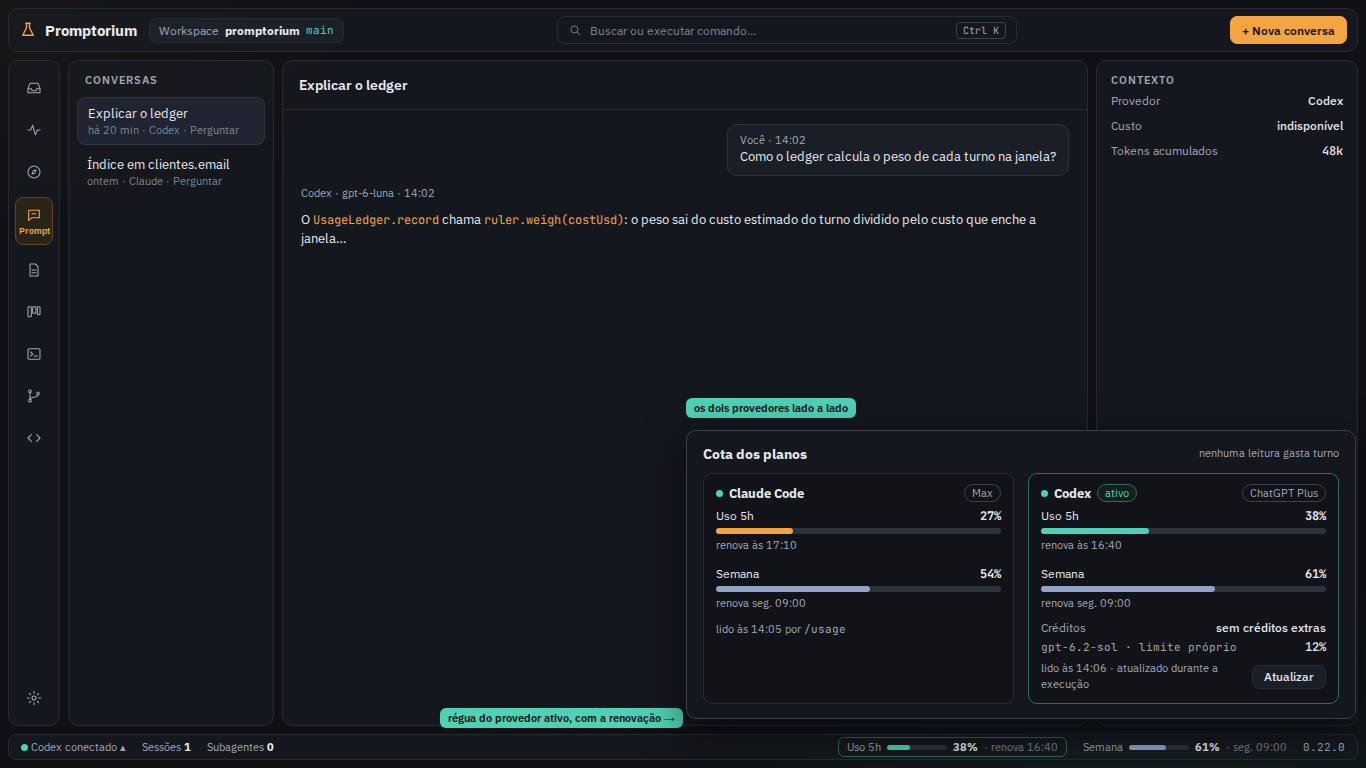
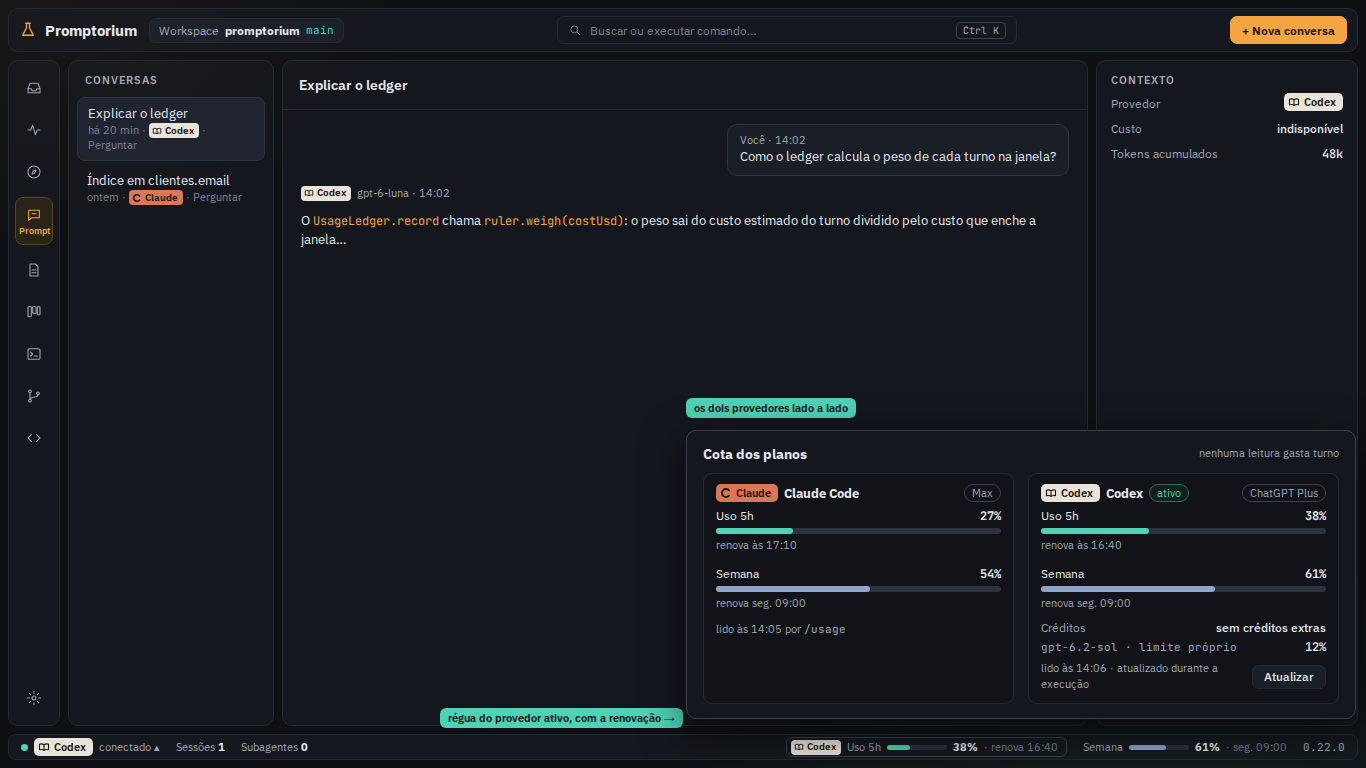
docs(spec): SPEC-097 cores de provedor

diff --git a/docs/specs/SPEC-097-cota-codex-rodape.md b/docs/specs/SPEC-097-cota-codex-rodape.md
@@ -117,3 +117,5 @@ Canvas: [SPEC-097 · Cota do Codex no rodapé](https://claude.ai/artifact/5ZUZtm
 | `docs/mockups/spec-097/1-rodape-e-detalhe.png` | Rodapé com a cota do Codex e o detalhe aberto: Claude Code e Codex lado a lado, plano, janelas, renovação, créditos, hora da leitura e "Atualizar" | R1, R5, R6 |
 | `docs/mockups/spec-097/2-custo-indisponivel.png` | Custo por spec com "custo indisponível · 1,2 mi tokens" no Codex, o total misto e o ranking com as specs só com tokens à parte | R8–R10 |
 | `docs/mockups/spec-097/3-limite-atingido.png` | Limite do Codex atingido: régua vermelha com a renovação, aviso antes de uma sessão nova com a opção explícita de usar o Claude, e "cota indisponível" sem login | R4, R7 |
+
+Os mocks mostram o provedor com o chip ou a marca de identidade da SPEC-094 (R14: Claude = argila `#D97757`, Codex = porcelana `#E8E4DA`, sempre com nome ou glifo, nunca como estado).
